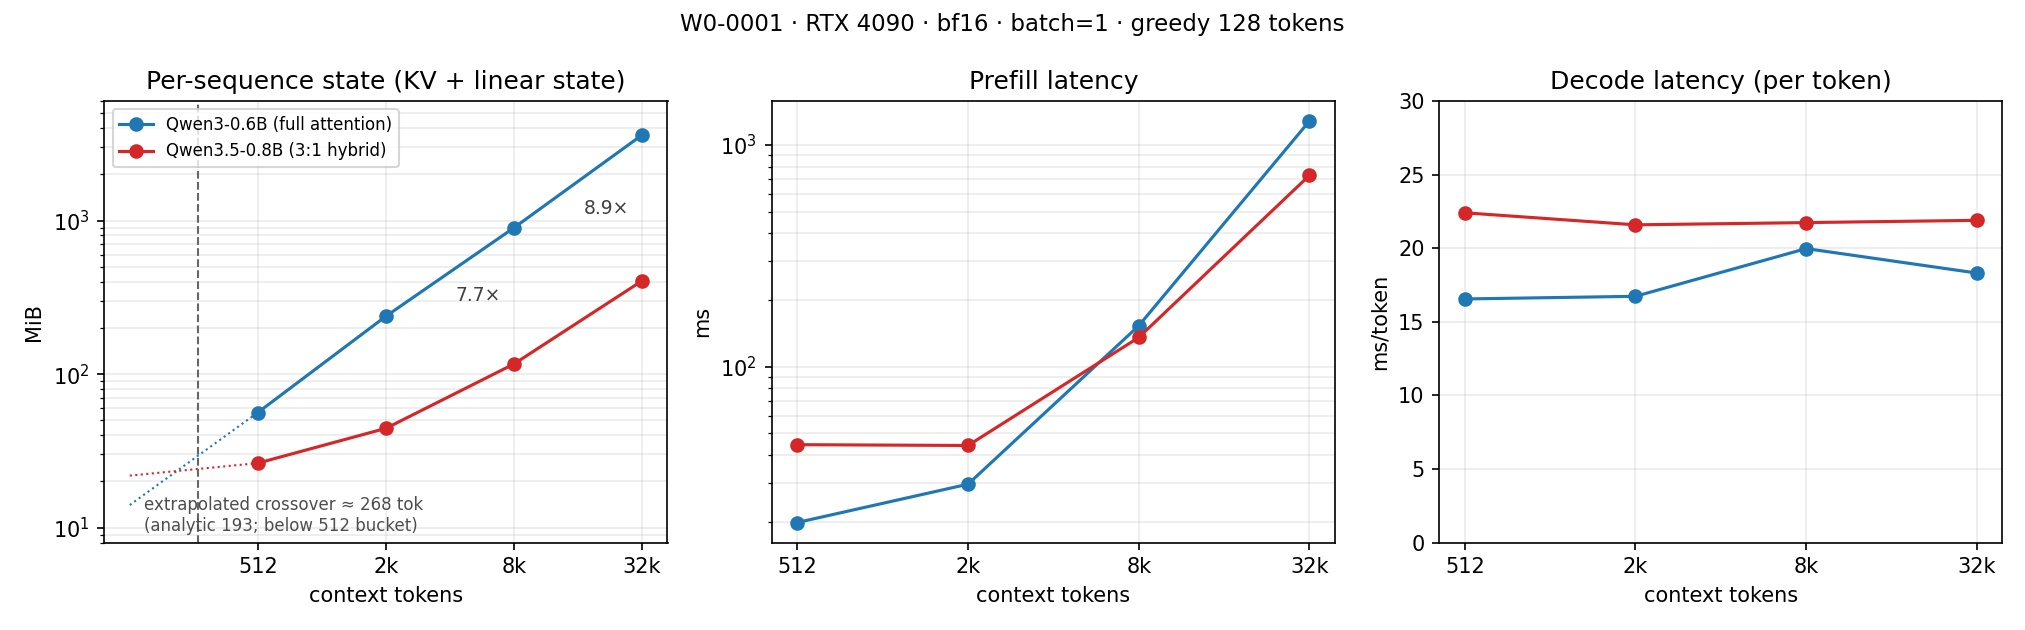
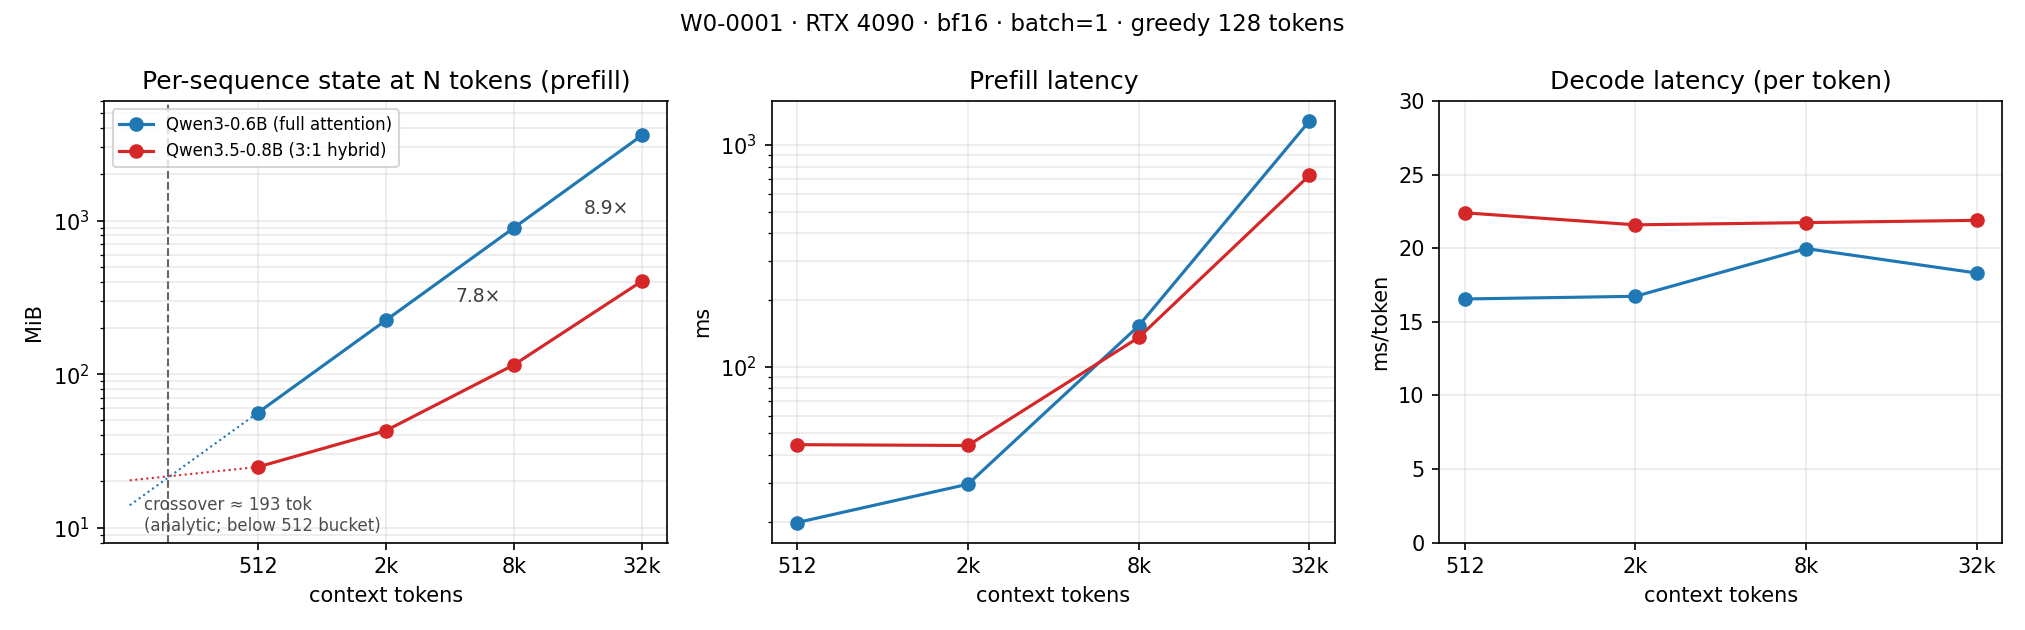
fix(w0): count decode tokens correctly; crossover is 193 tokens, P1 7.80x

diff --git a/scripts/plot_w0_crossover.py b/scripts/plot_w0_crossover.py
@@ -27,6 +27,9 @@ MODELS = ["Qwen/Qwen3-0.6B", "Qwen/Qwen3.5-0.8B"]
 COLORS = {"Qwen/Qwen3-0.6B": "#1f77b4", "Qwen/Qwen3.5-0.8B": "#d62728"}
 LABELS = {"Qwen/Qwen3-0.6B": "Qwen3-0.6B (full attention)", "Qwen/Qwen3.5-0.8B": "Qwen3.5-0.8B (3:1 hybrid)"}
 
+# State at exactly N tokens. ``cache_mb`` is post-decode and adds (out_tokens-1) tokens.
+KEY = "cache_prefill_mb"
+
 
 def _series(groups: dict[tuple[str, int], dict], model: str, key: str) -> tuple[list[int], list[float]]:
     ctxs = sorted(c for (m, c) in groups if m == model)
@@ -36,15 +39,17 @@ def _series(groups: dict[tuple[str, int], dict], model: str, key: str) -> tuple[
 def _crossover(groups: dict[tuple[str, int], dict]) -> float | None:
     """Where the hybrid's fixed state stops costing more than the attention KV."""
     a_model, b_model = MODELS[0], MODELS[1]
-    a_ctx, a_cache = _series(groups, a_model, "cache_mb")
-    b_ctx, b_cache = _series(groups, b_model, "cache_mb")
+    a_ctx, a_cache = _series(groups, a_model, KEY)
+    b_ctx, b_cache = _series(groups, b_model, KEY)
     if len(a_ctx) < 2 or len(b_ctx) < 2:
         return None
     a_slope = (a_cache[-1] - a_cache[0]) / (a_ctx[-1] - a_ctx[0])
     b_slope = (b_cache[-1] - b_cache[0]) / (b_ctx[-1] - b_ctx[0])
     if a_slope <= b_slope:
         return None
-    return b_cache[0] / (a_slope - b_slope)
+    a_intercept = a_cache[0] - a_slope * a_ctx[0]
+    b_intercept = b_cache[0] - b_slope * b_ctx[0]
+    return (b_intercept - a_intercept) / (a_slope - b_slope)
 
 
 def main() -> int:
@@ -60,37 +65,39 @@ def main() -> int:
 
     fig, axes = plt.subplots(1, 3, figsize=(13.5, 4.2))
     for model in MODELS:
-        ctx, cache = _series(groups, model, "cache_mb")
+        ctx, cache = _series(groups, model, KEY)
         axes[0].plot(ctx, cache, "o-", color=COLORS[model], label=LABELS[model])
         ctx, prefill = _series(groups, model, "prefill_ms")
         axes[1].plot(ctx, prefill, "o-", color=COLORS[model], label=LABELS[model])
         ctx, tpot = _series(groups, model, "tpot_ms")
         axes[2].plot(ctx, tpot, "o-", color=COLORS[model], label=LABELS[model])
 
-    axes[0].set_title("Per-sequence state (KV + linear state)")
+    axes[0].set_title("Per-sequence state at N tokens (prefill)")
     axes[0].set_ylabel("MiB")
     axes[0].set_yscale("log")
     axes[0].set_ylim(8, 6000)
 
     # Both carriers are linear in context, so the crossing sits below the smallest
     # measured bucket; draw the fitted segment instead of pretending it was measured.
-    a_ctx, a_cache = _series(groups, MODELS[0], "cache_mb")
-    b_ctx, b_cache = _series(groups, MODELS[1], "cache_mb")
+    a_ctx, a_cache = _series(groups, MODELS[0], KEY)
+    b_ctx, b_cache = _series(groups, MODELS[1], KEY)
     a_slope = (a_cache[-1] - a_cache[0]) / (a_ctx[-1] - a_ctx[0])
     b_slope = (b_cache[-1] - b_cache[0]) / (b_ctx[-1] - b_ctx[0])
+    a_intercept = a_cache[0] - a_slope * a_ctx[0]
+    b_intercept = b_cache[0] - b_slope * b_ctx[0]
     x_fit = [128, a_ctx[0]]
-    axes[0].plot(x_fit, [a_slope * x for x in x_fit], ":", lw=1, color=COLORS[MODELS[0]])
-    axes[0].plot(x_fit, [b_cache[0] - b_slope * (b_ctx[0] - x) for x in x_fit], ":", lw=1, color=COLORS[MODELS[1]])
+    axes[0].plot(x_fit, [a_intercept + a_slope * x for x in x_fit], ":", lw=1, color=COLORS[MODELS[0]])
+    axes[0].plot(x_fit, [b_intercept + b_slope * x for x in x_fit], ":", lw=1, color=COLORS[MODELS[1]])
 
     cross = _crossover(groups)
     if cross is not None:
         axes[0].axvline(cross, ls="--", lw=1, color="0.4")
-        axes[0].annotate(f"extrapolated crossover ≈ {cross:.0f} tok\n(analytic 193; below 512 bucket)",
+        axes[0].annotate(f"crossover ≈ {cross:.0f} tok\n(analytic; below 512 bucket)",
                          xy=(cross, 8), xytext=(150, 9), fontsize=8, color="0.3", va="bottom")
 
     for ctx in (8192, 32768):
-        a = groups[(MODELS[0], ctx)]["cache_mb"]["median"]
-        b = groups[(MODELS[1], ctx)]["cache_mb"]["median"]
+        a = groups[(MODELS[0], ctx)][KEY]["median"]
+        b = groups[(MODELS[1], ctx)][KEY]["median"]
         axes[0].annotate(f"{a / b:.1f}×", xy=(ctx, (a * b) ** 0.5), xytext=(-6, 0),
                          textcoords="offset points", fontsize=9, color="0.25", ha="right", va="center")
 

diff --git a/docs/carrier.md b/docs/carrier.md
@@ -36,29 +36,37 @@
 > （19 MB / 12 KB ≈ 1.5k），比较对象错了。要和**纯注意力**的 KV 比，差值约 100 KiB/token，
 > 交叉点在 200 token 量级。已按此修 ROADMAP。
 
-**实测校验（`W0-0001`）**：解析式在 0.4% 内成立——0.6B 实测 **112.4 KiB/token**（估 112），
-0.8B 实测 **12.05 KiB/token**（估 12），线性状态 **18.0 MiB**（估 18），短卷积 **0.84 MiB**（估 0.84）。
-唯一未解释项：0.8B 的 KV 有 **1.5 MiB 固定开销**（四个上下文都恒定，0.4% 量级，不影响结论）。
+**实测校验（`W0-0001`，prefill 口径）**：解析式**完全命中**——0.6B **112.0 KiB/token**、
+0.8B **12.0 KiB/token**、线性状态 **18.0 MiB**、短卷积 **0.84 MiB**，四个上下文全部吻合。
+
+> **口径更正**：`metrics.jsonl` 的 `cache_mb` 是 **decode 结束后**的状态，比 prefill 多
+> `(out_tokens−1)` 个 token 的 KV。0.8B 恒为 `127 × 12 KiB = 1.49 MiB`（此前误记为“1.5 MiB
+> 未解释固定开销”），0.6B 因早停是 0–127 个不等。所以 P1/P2 必须用 `cache_prefill_mb`
+> （prefill 结束时、恰好 N 个 token 的状态）；拿 final cache 除以 prompt 长度会把每 token
+> 成本高估 `127/N`（512 时 +25%）。
 
 ### 2.1 口径警告：别拿「进程峰值」比
 
 权重本身 ~1.14 GiB（0.6B）/ ~1.44 GiB（0.8B，text-only）；若直接比 `peak_memory_allocated`，
 0.8B 在**任何**上下文都比 0.6B 大，KV 的差异被权重淹没。W0 必须把状态拆成
-**权重 / KV / 线性状态 / 激活**，P1、P2 用「每序列状态（cache）」判定，
+**权重 / KV / 线性状态 / 激活**，P1、P2 用「每序列状态（`cache_prefill_mb`）」判定，
 总量只作辅助列。这条决定了 `bench/engines/hf.py` 要能从 `past_key_values` 里数字节。
 
 ## 3. 实测（`W0-0001`，4090，bf16，batch=1，greedy 128 token，warmup=3 / repeats=5）
 
 `weights_mb` 与 context 无关：**0.6B = 1136.9 MiB，0.8B = 1435.1 MiB**（0.8B 只加载 text decoder，
-视觉塔与 MTP 头不进显存）。P1/P2 只看 **cache** 列（KV + 线性状态 + 卷积窗口），
-`peak_mem_mb` / `mem_delta_mb` 作辅助，不参与判定。
+视觉塔与 MTP 头不进显存）。P1/P2 只看 **`cache_prefill_mb`**（恰好 N 个 token 的状态：
+KV + 线性状态 + 卷积窗口），`peak_mem_mb` / `mem_delta_mb` 作辅助，不参与判定。
 
 | context | 0.6B cache (KV) | 0.8B cache (KV+state) | cache 比 0.6B/0.8B | 0.6B prefill / tpot | 0.8B prefill / tpot |
 |---|---|---|---|---|---|
-| 512 | 56.2 MiB | 26.3 MiB（KV 7.5 + state 18.0 + conv 0.84） | **2.13×** | 19.8 ms / 16.55 ms | 44.5 ms / 22.41 ms |
-| 2k | 237.9 MiB | 44.3 MiB（KV 25.5 + 18.0 + 0.84） | **5.37×** | 29.5 ms / 16.73 ms | 44.1 ms / 21.59 ms |
-| 8k | 896.1 MiB | 116.3 MiB（KV 97.5 + 18.0 + 0.84） | **7.70×** | 152.9 ms / 19.97 ms | 135.4 ms / 21.74 ms |
-| 32k | 3597.9 MiB | 404.3 MiB（KV 385.5 + 18.0 + 0.84） | **8.90×** | 1282.5 ms / 18.31 ms | 729.5 ms / 21.89 ms |
+| 512 | 56.0 MiB | 24.8 MiB（KV 6.0 + state 18.0 + conv 0.84） | **2.25×** | 19.8 ms / 16.55 ms | 44.5 ms / 22.41 ms |
+| 2k | 224.0 MiB | 42.8 MiB（KV 24.0 + 18.0 + 0.84） | **5.23×** | 29.5 ms / 16.73 ms | 44.1 ms / 21.59 ms |
+| 8k | 896.0 MiB | 114.8 MiB（KV 96.0 + 18.0 + 0.84） | **7.80×** | 152.9 ms / 19.97 ms | 135.4 ms / 21.74 ms |
+| 32k | 3584.0 MiB | 402.8 MiB（KV 384.0 + 18.0 + 0.84） | **8.90×** | 1282.5 ms / 18.31 ms | 729.5 ms / 21.89 ms |
+
+> 表里是 `cache_prefill_mb`。同名 run 的 `cache_mb`（decode 结束后）为 56.2 / 237.9 / 896.1 / 3597.9 MiB
+> 与 26.3 / 44.3 / 116.3 / 404.3 MiB——差值是生成的 token，不是架构开销。
 
 辅助列（进程口径，含权重与激活，**不用于判定**）：
 
@@ -70,7 +78,7 @@
 | 32k | 5578 / 8864 MiB | 4002 / 4772 MiB |
 
 > 进程峰值 32k 只差 1.39×（5578 / 4002），因为 1.14 / 1.44 GiB 权重是固定成本；
-> 差值基本等于 cache 差（3.20 GiB）。**报告引用比例时必须写清口径**。
+> 差值基本等于 cache 差（3.11 GiB）。**报告引用比例时必须写清口径**。
 >
 > 组内重复性：同配置 5 次重复的 TTFT CV ≤ 8.1%、TPOT CV ≤ 6.8%，cache 字节完全一致。
 > `summary.json.warnings` 里的 `ttft_ms CV=1.41` 是把 4 个上下文和 2 个模型**混在一起**算的
@@ -101,17 +109,17 @@
 
 | # | 预测 | 判定 | 证据 |
 |---|---|---|---|
-| P1 | 长上下文（≥8k）每序列显存比同量级纯注意力小 5–8× | **成立（略超上限）**：8k **7.70×**、32k **8.90×** | `W0-0001` |
-| P2 | 短上下文（≤512）混合架构反而更贵 | **不成立（方向相反）**：512 上混合已小 **2.13×**；外推交叉点 **≈268 token**，低于最小桶 | `W0-0001` |
+| P1 | 长上下文（≥8k）每序列显存比同量级纯注意力小 5–8× | **成立（略超上限）**：8k **7.80×**、32k **8.90×** | `W0-0001` |
+| P2 | 短上下文（≤512）混合架构反而更贵 | **不成立（方向相反）**：512 上混合已小 **2.25×**；交叉点 **≈193 token**（prefill 口径），低于最小桶 | `W0-0001` |
 | P3 | decode 延迟随上下文几乎不增长（线性层无 KV 读取） | **数值成立，但不可归因**：0.8B TPOT 22.41→21.89 ms（−2.3%）；0.6B 也只 +10.6%，说明 decode 被 launch/权重带宽支配 | `W0-0001` |
 
-**P1 的口径**：按「每序列状态」成立（7.7–8.9×），按「进程峰值」只有 1.39×（权重占大头）。
+**P1 的口径**：按「每序列状态」成立（7.8–8.9×），按「进程峰值」只有 1.39×（权重占大头）。
 D1 的判据用前者，报告必须同时给两个数。
 
 **P2 为什么错了**：预测假设固定状态开销（18.84 MiB）会压过 512 token 的 KV 差（~50 MiB），
 但实测 0.6B 的 KV 是 112 KiB/token，512 就已 56 MiB > 18.84 MiB。交叉点不在 512，
-而在 **≈268 token**（解析 193，差值来自 0.8B 的 1.5 MiB KV 固定开销）。
-换句话说：**混合架构从来没有在测试过的上下文里更贵**，图左端的虚线是外推，不是测量。
+而在 **≈193 token**（`18.84 / (112 − 12) KiB`，与 prefill 实测一致）。
+换句话说：**混合架构从来没有在测试过的上下文里更贵**；193 token 只出现在图左端的外推段。
 
 **P3 为什么不能下结论**：0.8B 的 TPOT 确实平（斜率 ≈ −0.003 ms/1k token），但 0.6B 也几乎平
 （16.55→18.31 ms）。batch=1 时每个 decode step 的耗时主要是 kernel launch + 读 1.1–1.4 GiB 权重
@@ -120,8 +128,8 @@ D1 的判据用前者，报告必须同时给两个数。
 
 ## 5. D1 决策
 
-**接受移植**（2026-10-22，见 [decisions.md](decisions.md) D1）：P1 的 3× 判据以 7.70×（8k）/ 8.90×（32k）
-满足，且比值随上下文增长；32k 时每序列省 3.20 GiB，直接换成并发数。
+**接受移植**（2026-10-22，见 [decisions.md](decisions.md) D1）：P1 的 3× 判据以 7.80×（8k）/ 8.90×（32k）
+满足，且比值随上下文增长；32k 时每序列省 3.11 GiB，直接换成并发数。
 
-不投入的边界也写清楚：**上下文 < ~270 token 时混合更贵**；**≤2k 时 prefill 慢 1.5–2.2×**。
+不投入的边界也写清楚：**上下文 < ≈193 token 时混合更贵**；**≤2k 时 prefill 慢 1.5–2.2×**。
 W5–W7 的收益论证必须建立在「长上下文、多并发」这个前提上，短上下文场景不适用。

diff --git a/results/W0/0001-carrier-probe/notes.md b/results/W0/0001-carrier-probe/notes.md
@@ -17,30 +17,34 @@
 
 | context | 0.6B cache | 0.8B cache | 比 | 0.6B prefill / tpot | 0.8B prefill / tpot |
 |---|---|---|---|---|---|
-| 512 | 56.2 MiB | 26.3 MiB | 2.13× | 19.8 / 16.55 ms | 44.5 / 22.41 ms |
-| 2k | 237.9 MiB | 44.3 MiB | 5.37× | 29.5 / 16.73 ms | 44.1 / 21.59 ms |
-| 8k | 896.1 MiB | 116.3 MiB | 7.70× | 152.9 / 19.97 ms | 135.4 / 21.74 ms |
-| 32k | 3597.9 MiB | 404.3 MiB | 8.90× | 1282.5 / 18.31 ms | 729.5 / 21.89 ms |
+| 512 | 56.0 MiB | 24.8 MiB | 2.25× | 19.8 / 16.55 ms | 44.5 / 22.41 ms |
+| 2k | 224.0 MiB | 42.8 MiB | 5.23× | 29.5 / 16.73 ms | 44.1 / 21.59 ms |
+| 8k | 896.0 MiB | 114.8 MiB | 7.80× | 152.9 / 19.97 ms | 135.4 / 21.74 ms |
+| 32k | 3584.0 MiB | 402.8 MiB | 8.90× | 1282.5 / 18.31 ms | 729.5 / 21.89 ms |
+
+> cache 列用 `cache_prefill_mb`：prefill 结束时、恰好 N 个 token 的状态。`cache_mb`（decode 结束后）
+> 比它多 `(out_tokens−1)` 个 token 的 KV——0.8B 恒多 1.49 MiB，0.6B 因早停多 0–13.9 MiB。
+> 早期稿把 0.8B 这 1.49 MiB 当作“固定开销”，实为 127 个 decode token，已更正。
 
 - 权重：1136.9 MiB（0.6B）/ 1435.1 MiB（0.8B，text-only）。32k 进程峰值 5578 / 4002 MiB（1.39×），
-  差值 ≈ cache 差 3.20 GiB——**峰值口径看不出架构差异，判据必须用每序列 cache**。
+  差值 ≈ cache 差 3.11 GiB——**峰值口径看不出架构差异，判据必须用每序列 cache**。
 - 重复性：同配置 TTFT CV ≤ 8.1%、TPOT CV ≤ 6.8%、cache 字节完全一致。
 - `summary.json.warnings` 里的 `ttft_ms CV=1.41` 是跨上下文/跨模型混合口径的 artifact，不是噪声。
 
 ## 与预测的偏差
 
-- **P1（≥8k 小 5–8×）成立**：7.70×（8k）/ 8.90×（32k），渐近比 `112/12 = 9.33×`。
-- **P2（≤512 混合更贵）不成立，方向相反**：512 上混合已小 2.13×；实测外推交叉点 ≈268 token
-  （解析 193，差值来自 0.8B 的 1.5 MiB KV 固定开销），低于最小测试桶。
+- **P1（≥8k 小 5–8×）成立**：7.80×（8k）/ 8.90×（32k），渐近比 `112/12 = 9.33×`。
+- **P2（≤512 混合更贵）不成立，方向相反**：512 上混合已小 2.25×；交叉点 ≈193 token
+  （prefill 口径，与解析式 `18.84 / (112 − 12) KiB` 一致），低于最小测试桶。
 - **P3（decode 不随上下文增长）数值成立但不可归因**：0.8B TPOT 22.41 → 21.89 ms（−2.3%）；
   0.6B 也只 +10.6%。batch=1 时 decode 被 kernel launch + 权重读取支配（0.6B 32k 的 KV 读取理论值
   3.6 ms，总耗时 18 ms），分辨不出线性层“无 KV 可读”的贡献。
 
 ## 结论（含“什么时候不划算”）
 
-- D1 接受（预注册判据 3×，实测 7.7–8.9×）：W5–W7 投入移植；收益来源是**同显存下的并发数**
-  （32k 每序列省 3.20 GiB），不是单请求更快。
-- **不划算的边界**：上下文 < ≈270 token 时混合更贵；≤2k 时 prefill 慢 1.5–2.2×；
+- D1 接受（预注册判据 3×，实测 7.8–8.9×）：W5–W7 投入移植；收益来源是**同显存下的并发数**
+  （32k 每序列省 3.11 GiB），不是单请求更快。
+- **不划算的边界**：上下文 < ≈193 token 时混合更贵；≤2k 时 prefill 慢 1.5–2.2×；
   batch=1 的短上下文没有收益。W5–W7 的论证必须限定在「长上下文 + 多并发」。
 
 ## 限制与偏差
@@ -50,7 +54,7 @@
   重复性仍好，但这两格的 decode 结论要弱化。
 - synthetic 随机 token 不代表真实 prompt 分布，只用于状态字节与延迟曲线。
 - 未做“有/无 `flash-linear-attention`”的对照（本机装有 fla 0.5.2 / causal-conv1d 1.7.0）。
-- 0.8B 的 KV 有 1.5 MiB 固定开销（四个上下文恒定，0.4%）未解释。
+- 跨上下文比较用 prefill cache；final cache 含 decode token（0.8B +1.49 MiB），不可拿它除以 prompt 长度。
 - 未测 2B/4B 档；`Qwen3.5-0.8B` 的选择是尺寸友好，不代表其它档位。
 
 ## 下一步

diff --git a/ROADMAP.md b/ROADMAP.md
@@ -129,7 +129,7 @@
 ```
 
 对 0.8B 粗估：KV ≈ 12 KiB/token（6 层），固定状态 ≈ 18.84 MiB/序列（18 层 fp32 + 短卷积）。
-→ 与纯注意力的 112 KiB/token 相比，**交叉点约 193 token**（`W0-0001` 实测外推 ≈268）：
+→ 与纯注意力的 112 KiB/token 相比，**交叉点约 193 token**（`W0-0001` 实测 ≈193，prefill 口径）：
 受测上下文（≥512）里混合始终更省，短上下文的额外成本来自固定状态与 prefill 启动开销。
 
 ### 3.2 待验证预测（W0 的判据）
@@ -145,7 +145,7 @@
 - P1 成立（≥3×）→ **W5–W7 投入移植**，主线按 §5 走
 - P1 不成立（<2×）→ 砍掉移植，Qwen3.5 只作 HF 侧对照，主线改纯注意力引擎
 - Qwen3.5-0.8B 在 4090 上跑不动 → 退 2B 或纯注意力
-- **判定（2026-10-22）**：P1 实测 7.70×（8k）/ 8.90×（32k）→ **接受移植**，见 `docs/decisions.md` D1。
+- **判定（2026-10-22）**：P1 实测 7.80×（8k）/ 8.90×（32k）→ **接受移植**，见 `docs/decisions.md` D1。
 
 **产出**：`docs/carrier.md`、`docs/fig_w0_crossover.png`（`scripts/plot_w0_crossover.py` 生成）、
 `results/W0/0001-carrier-probe/`（summary + metrics）、`docs/decisions.md` D1
@@ -373,4 +373,4 @@ python scripts/exp_index.py --check
 | 2026-10-21 | v1 | 初稿：误以为 Qwen3.5 最小 27B，把混合注意力放到 W7 做对照 |
 | 2026-10-21 | v2 | **更正**：Qwen3.5 有 0.8B/2B/4B/9B，但全系 3:1 混合 → 改为「骨架载体 + 目标载体」双轨；W0 先测后实现（D1 决策点）；删除投机解码，量化降为可选 |
 | 2026-10-21 | v3 | **项目重组**：旧训练线删除（文本快照 tag `legacy-learning-2026-08`）；实验契约改为不可变 run 目录 + 生成索引（`docs/experiments.md`）；测试改 pytest 自包含护栏；设备分层 `dev-mps` / `measure-cuda`；W0 双载体 revision 已 pin |
-| 2026-10-22 | v4 | **W0 完成**：`W0-0001` 实测 P1 成立（8k 7.70× / 32k 8.90×）、P2 不成立（交叉点 ≈268 token）、P3 数值成立但不可归因；修正 §3.1 交叉点（1.5k → 193）、产出清单与 `probe_memory.py` 的描述；D1 接受 |
+| 2026-10-22 | v4 | **W0 完成**：`W0-0001` 实测 P1 成立（8k 7.80× / 32k 8.90×）、P2 不成立（交叉点 ≈193 token）、P3 数值成立但不可归因；修正 §3.1 交叉点（1.5k → 193）、产出清单与 `probe_memory.py` 的描述；D1 接受 |

diff --git a/docs/decisions.md b/docs/decisions.md
@@ -31,9 +31,9 @@
   - P1 < 2× → 砍掉移植，Qwen3.5 只作 HF 侧对照，主线收在 W4；
   - 交叉点先用解析式估算（≈193 token），再由 `W0-0001` 实测复核。
 - **证据**：`W0-0001`（4090，bf16，batch=1，warmup=3 / repeats=5）：
-  - 每序列 cache：8k **7.70×**、32k **8.90×**（预测 5–8× 成立并略超上限）；
-  - 512 上混合已小 **2.13×**，实测交叉点 **≈268 token**（解析 193）→ P2 不成立；
-  - 32k 每序列省 **3.20 GiB**；进程峰值只差 1.39×（权重 1136.9 / 1435.1 MiB 是固定成本）；
+  - 每序列 cache：8k **7.80×**、32k **8.90×**（预测 5–8× 成立并略超上限）；
+  - 512 上混合已小 **2.25×**，实测交叉点 **≈193 token**（prefill 口径，与解析式一致）→ P2 不成立；
+  - 32k 每序列省 **3.11 GiB**；进程峰值只差 1.39×（权重 1136.9 / 1435.1 MiB 是固定成本）；
   - 0.8B decode TPOT 22.41 → 21.89 ms（−2.3%），但 0.6B 也近似平（+10.6%）：P3 数值成立、暂不可归因。
 - **决定**：**接受**。W5–W7 按 ROADMAP §5 推进；主线保持「双载体、同一 `serve/`」，不收敛到单一架构。
 - **载体选择的理由**：主线必须用当年主流开源小模型（`Qwen3-0.6B` / `Qwen3.5-0.8B`）——这既是项目定位
@@ -41,7 +41,7 @@
   `TinyLlama-1.1B` 只作工程兜底，不进入对外叙事。
 - **后果（若接受）**：W5 全注意力层改造（head_dim 256 / 输出门控 / partial-RoPE / M-RoPE）；
   W6 Gated DeltaNet（短卷积 → decode 循环 → 分块 prefill）；W7 StatePool + 跨代对照。
-  收益论证必须限定在「长上下文 + 多并发」：上下文 < ≈270 token 时混合更贵，≤2k 时 prefill 慢 1.5–2.2×。
+  收益论证必须限定在「长上下文 + 多并发」：上下文 < ≈193 token 时混合更贵，≤2k 时 prefill 慢 1.5–2.2×。
 - **后果（若拒绝）**：W8 直接收口；报告只覆盖纯注意力引擎 + HF 侧混合架构对照。
 - **复盘点**：W7 末复核一次「移植成本是否被收益覆盖」；若 W6 只有 decode 形式，按 ROADMAP §8 止损。
 

diff --git a/README.md b/README.md
@@ -25,7 +25,7 @@
 | W5–W7 | 混合层 + 双状态管理 + 跨代对照 | ⬜ |
 | W8 | 报告与判据矩阵 | ⬜ |
 
-W0 已完成（双载体探测，D1 接受移植）：P1 成立（8k 7.70× / 32k 8.90×），P2 不成立（交叉点 ≈268 token），
+W0 已完成（双载体探测，D1 接受移植）：P1 成立（8k 7.80× / 32k 8.90×），P2 不成立（交叉点 ≈193 token），
 P3 数值成立但暂不可归因。下一步 W1：把 `Qwen3-0.6B` 装进自己的解码器并对齐。
 
 ## 快速开始
